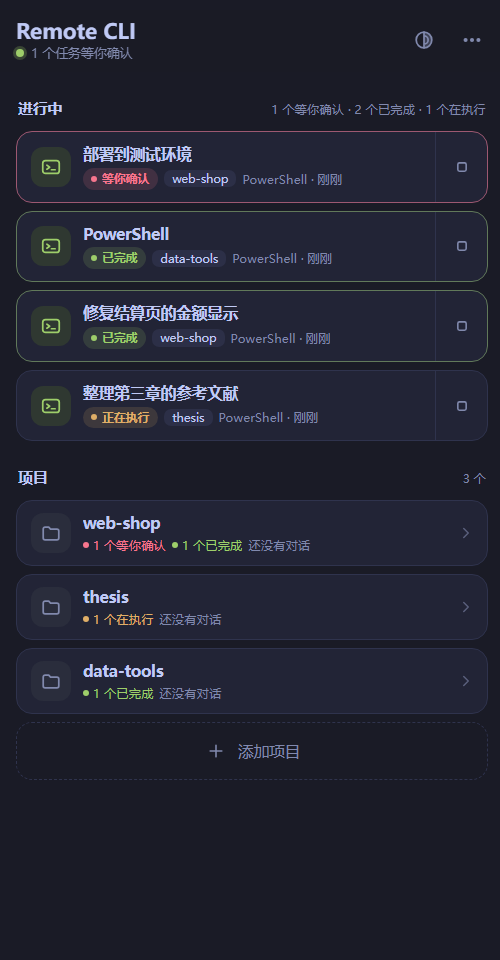
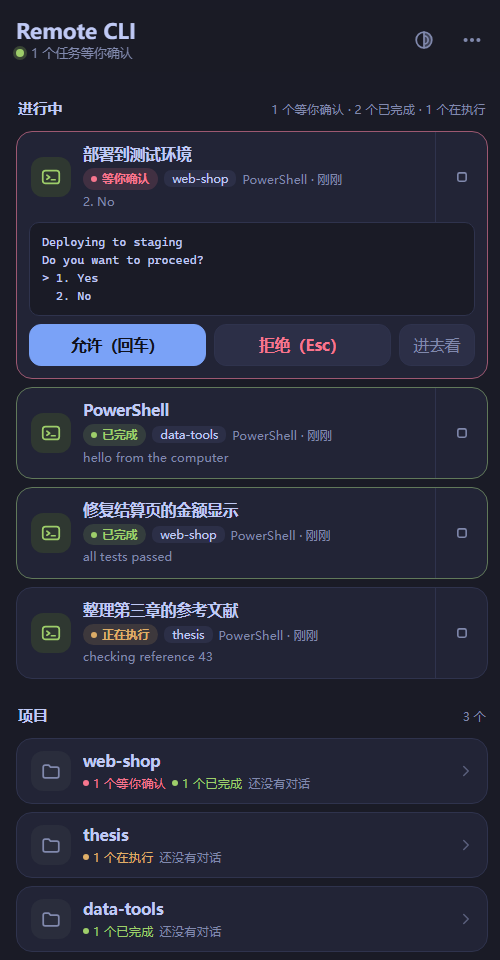
chore(release): 1.0.0
Pictures for the README and the guide are drawn again from the current pages
and programs, with the question card, the look-before-taking-over sheet and a
Word and a PowerPoint file as they look.

diff --git a/README.md b/README.md
@@ -114,11 +114,11 @@ curl -fsSL https://raw.githubusercontent.com/KangWang42/remote-cli/main/agent-li
 ## 手机上的样子
 
 <p align="center">
-  <img src="docs/images/overview.png" alt="一台电脑的首页：进行中的任务和项目" width="200">
+  <img src="docs/images/overview.png" alt="一台电脑的首页：等你确认的任务可以直接在卡片上回答" width="200">
   &nbsp;
-  <img src="docs/images/project.png" alt="一个项目：新建终端和历史对话" width="200">
+  <img src="docs/images/look.png" alt="电脑上打开着的对话：先看内容，再决定要不要在手机上继续" width="200">
   &nbsp;
-  <img src="docs/images/list-dark.png" alt="深色外观下的首页" width="200">
+  <img src="docs/images/files-word.png" alt="Word 文件保持原来的版式" width="200">
   &nbsp;
   <img src="docs/images/terminal-dark.png" alt="深色外观下的终端" width="200">
 </p>
